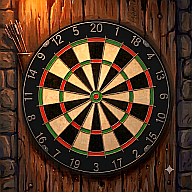
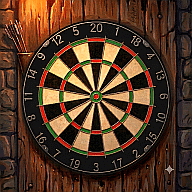
Minor updates

diff --git a/index.html b/index.html
@@ -205,13 +205,13 @@
       <section>
         <h3>Why We Built This</h3>
         <p>
-          For decades, dart players have relied on laminated poster charts or advice handed down across pub boards. While iconic, much of that traditional wisdom was invented in the 1970s and 1980s without the benefit of real data. Those charts assume you hit every treble you aim for, leaving you stranded with no plan when a dart drifts into a single.
+          For decades, dart players have relied on laminated poster charts or advice handed down across pub boards. While iconic, much of that traditional wisdom was invented without the benefit of real data. Those charts assume you hit every treble you aim for, leaving you stranded with no plan when a dart drifts into a single.
         </p>
         <p>
-          Modern PDC match telemetry and statistical analysis have proven that many classic routes are unnecessarily risky. Today's elite game is about <strong>high-percentage recovery</strong>: taking paths that maximize your scoring surface, keep your throwing rhythm along natural vertical corridors, and leave clean double options even on a misfire.
+          Modern PDC match telemetry and expected-value (EV) conversion models have proven that classic routes are unnecessarily risky. Today's elite game is built on <strong>fat-bed survivability</strong>: taking paths that guarantee a double attempt during high-friction match pressure, keeping your throwing rhythm along natural vertical corridors, and leaving clean setup options even on a 55–60% single-miss.
         </p>
         <p>
-          Whether you are learning your first 2-dart checkouts or competing in league finals, this advisor replaces outdated chart habits with scientifically proven percentages—giving you the exact route and immediate recovery line for every dart in your hand.
+          Whether you are learning your first 2-dart checkouts or competing in league finals, this advisor replaces outdated chart habits with mathematically optimized percentages—giving you the exact route and immediate recovery line for every dart in your hand.
         </p>
     </section>
 
@@ -219,16 +219,16 @@
       <h3>How the Advisor Thinks</h3>
       <ul>
         <li>
-          <strong>Track Every Dart:</strong> Options adapt instantly based on whether you have 3, 2, or 1 dart in hand. If your first dart catches a fat single, the advice immediately maps how to rescue the turn.
+          <strong>The Single-Miss Margin:</strong> Options adapt instantly based on darts in hand and match friction. If your first dart catches a fat single, the advice immediately maps the highest-percentage recovery line to rescue the turn.
         </li>
         <li>
-          <strong>Friendly Doubles First:</strong> The engine prioritizes doubles that divide cleanly in half—like D16, Tops, D8, and D12. If you miss on the inside wire into a single, you still have an active double left without burning extra darts to adjust.
+          <strong>2ⁿ Parity Hierarchy:</strong> When opponent pressure is low, the engine prioritizes primary tier doubles that degrade cleanly on an inside wire miss (e.g., D16 → D8 → D4). This preserves setup equity without burning extra darts to adjust.
         </li>
         <li>
-          <strong>Smooth Arm Mechanics:</strong> Changing throwing angles across the board costs rhythm. Target paths keep your arm moving naturally down vertical channels whenever possible.
+          <strong>Kinetic Corridors:</strong> Changing angles across the board costs rhythm. Target paths keep your arm moving naturally down vertical channels (like the Top Corridor: 20, 1, 5, 12, 18) to eliminate lateral shoulder and elbow shifts within a single visit.
         </li>
         <li>
-          <strong>Your Style, Your Shot:</strong> When two routes offer equal mathematical odds (like playing for Tops versus building for D16), both are highlighted. You decide what feels best in your hand.
+          <strong>Your Style, Your Shot:</strong> When two routes offer co-equal baseline validity (like a Tops bias versus building for D16), both are highlighted. You decide what feels best in your hand.
         </li>
       </ul>
     </section>
@@ -236,17 +236,17 @@
     <section>
       <h3>Route Legend</h3>
       <ul>
-        <li><span class="badge best">Best</span> High-percentage tournament standards and co-equal baselines.</li>
-        <li><span class="badge alt">Alt</span> Wire-block pivots, personal preference routes, and smart percentage plays.</li>
-        <li><span class="badge avoid">Avoid</span> Common match traps that leave dead-ends on single misses.</li>
-        <li><span class="badge setup">Setup</span> Deliberate positioning shots when an out isn't mathematically possible.</li>
+        <li><span class="badge best">Best</span> Highest conversion EV based on survivability, guaranteed double equity, and parity depth.</li>
+        <li><span class="badge alt">Alt</span> Valid alternative corridor or rhythm preferences, and smart percentage pivots.</li>
+        <li><span class="badge avoid">Avoid</span> Outdated legacy traps that strand the visit with 0% checkout probability on a single miss.</li>
+        <li><span class="badge setup">Setup</span> Strategic positioning shots when a checkout is mathematically impossible or to manage bogey numbers.</li>
       </ul>
     </section>
 
     <section class="modal-footer-note">
       <p style="font-size: 0.78rem; line-height: 1.4; color: var(--text-muted); margin: 0;">
-      <strong>License &amp; Terms:</strong> Free for personal, non-commercial oche practice. Tactical database and written strategy licensed under 
-      <a href="https://creativecommons.org/licenses/by-nc-sa/4.0/" target="_blank" rel="noopener" style="color: var(--accent); text-decoration: underline;">CC BY-NC-SA 4.0</a>. Commercial reproduction, scraping, or embedding in paid systems is strictly prohibited.
+      <strong>License &amp; Terms:</strong> Tactical notes, strategic recovery trees, and curated schemas are authored by John Phillip Amarante. 
+      Licensed under <a href="https://creativecommons.org/licenses/by-nc-sa/4.0/" target="_blank" rel="noopener" style="color: var(--accent); text-decoration: underline;">CC BY-NC-SA 4.0</a>. Free for personal, non-commercial oche practice. Commercial reproduction, scraping, or embedding in paid systems is strictly prohibited.
       </p>
     </section>
     </div>

diff --git a/sw.js b/sw.js
@@ -3,8 +3,8 @@ const ASSETS = [
   './',
   './index.html',
   './manifest.json',
-  './icon-192.png',
-  './icon-512.png'
+  './dartboard-192.png',
+  './dartboard-512.png'
 ];
 
 // Cache all core files immediately upon install
